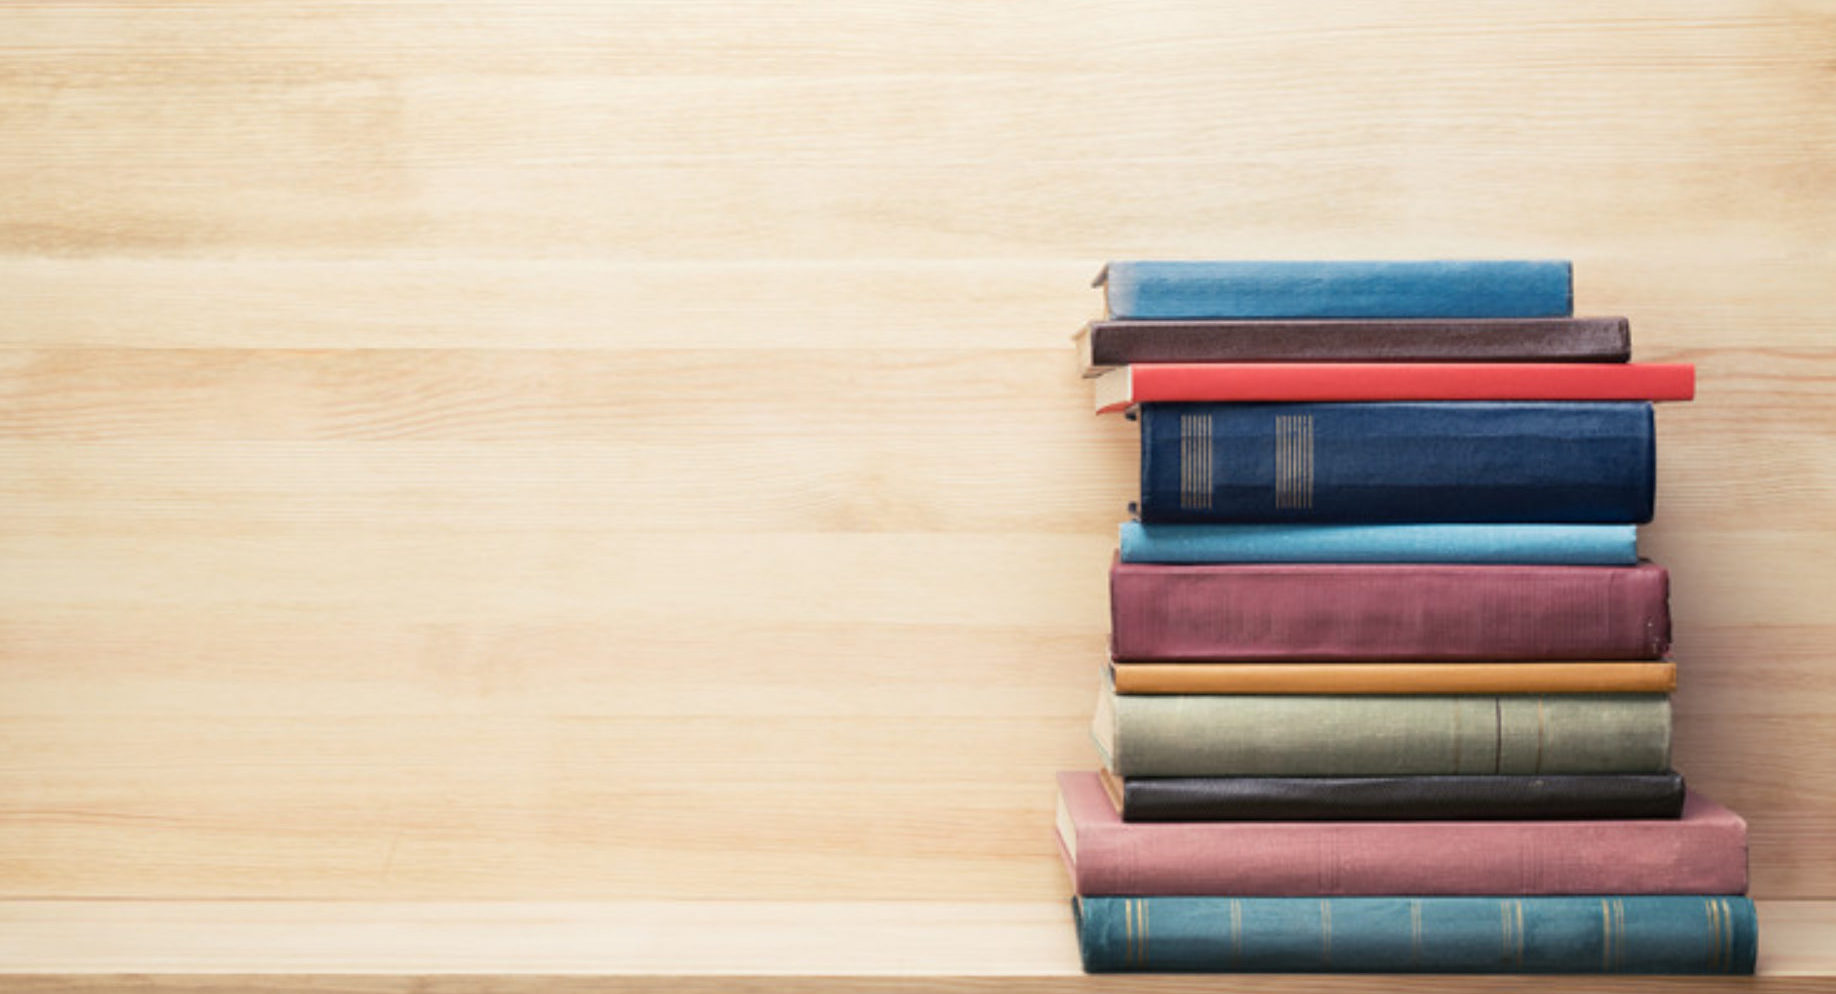
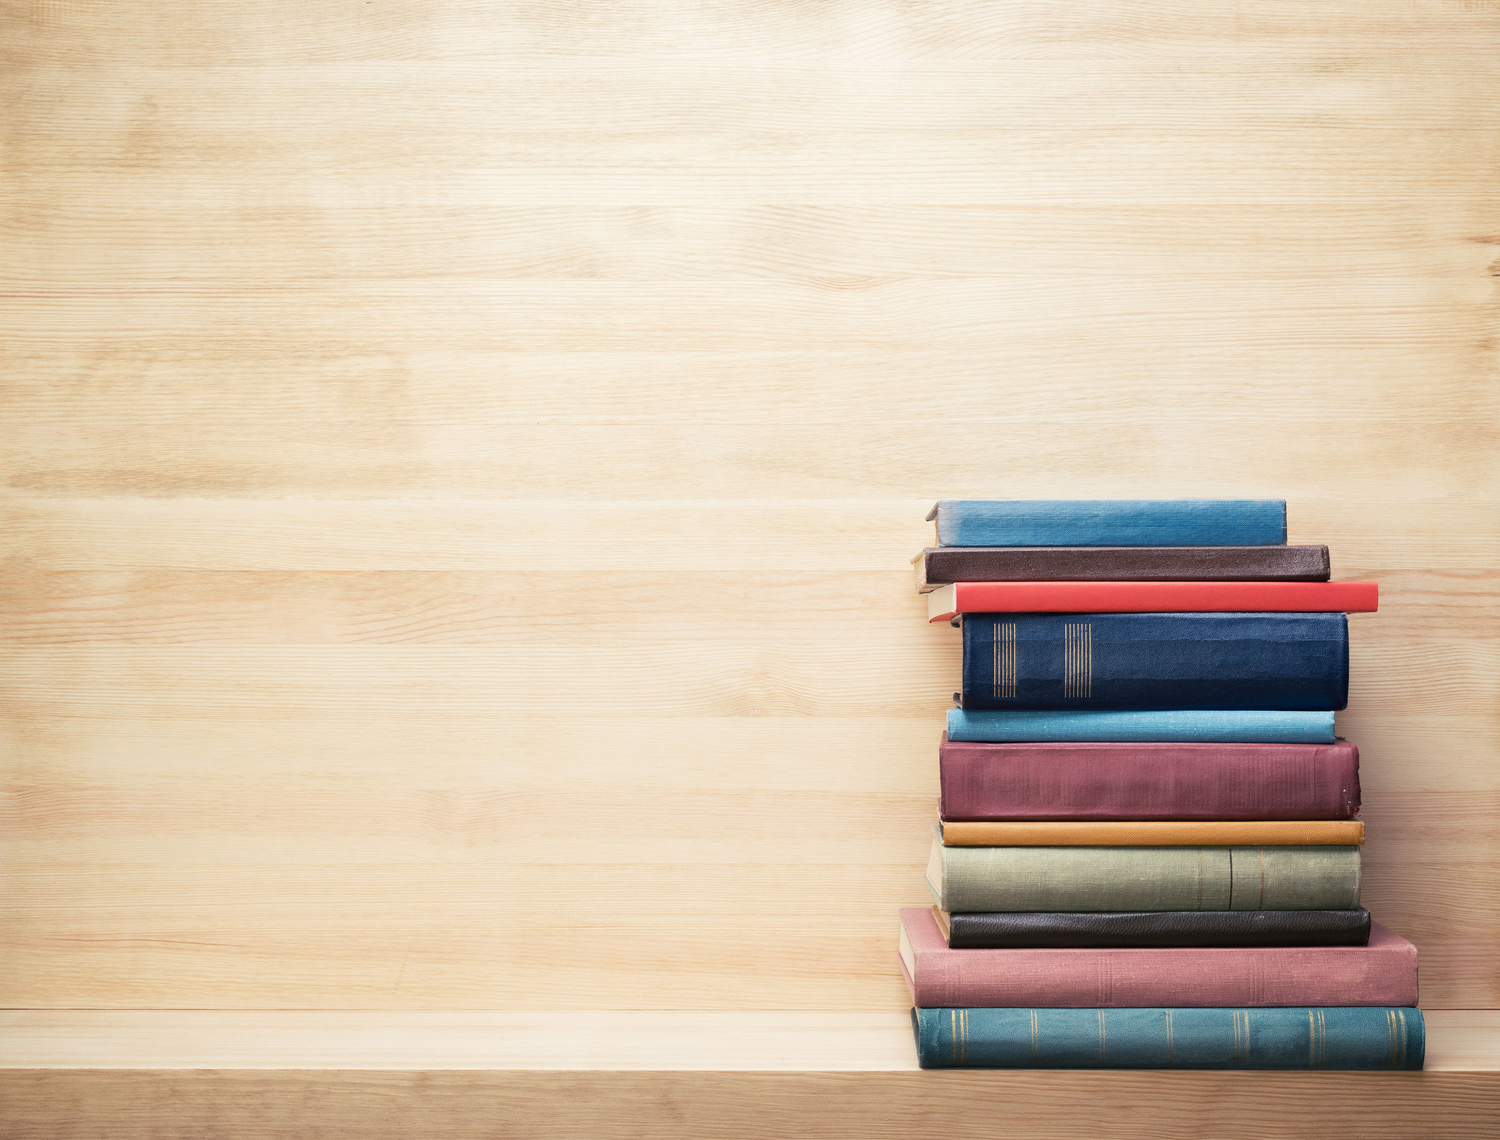
Change login/signup order. Update higher resolution BG

diff --git a/src/main/webapp/index.html b/src/main/webapp/index.html
@@ -17,8 +17,9 @@
         <div class="form">
 
             <ul class="tab-group">
-                <li class="tab" id="defaultOpen" onclick="showcontent('signup')"><a href="#signup">Sign Up</a></li>
-                <li class="tab" onclick="showcontent('login')"><a href="#login">Log In</a></li>
+                <li class="tab" id="defaultOpen" onclick="showcontent('login')"><a href="#login">Log In</a></li>
+                <li class="tab" onclick="showcontent('signup')"><a href="#signup">Sign Up</a></li>
+                
             </ul>
 
             <div class="tab-content">

diff --git a/src/main/webapp/css/main.css b/src/main/webapp/css/main.css
@@ -16,7 +16,7 @@ body {
 }
 .container{
     position: absolute;
-    top: 50%;
+    top: 70%;
     right: 70%;
     /*transform: translateX(-50%) translateY(-50%);*/
     transform: translate(50%, -50%);
@@ -214,8 +214,7 @@ textarea {
 */
 @media only screen and (max-width: 480px) {
     .container {
-        transform: none;
-        top: 20%;
+        transform: translate(0%,-50%);
         left: 0;
         width: 100%;
     }
